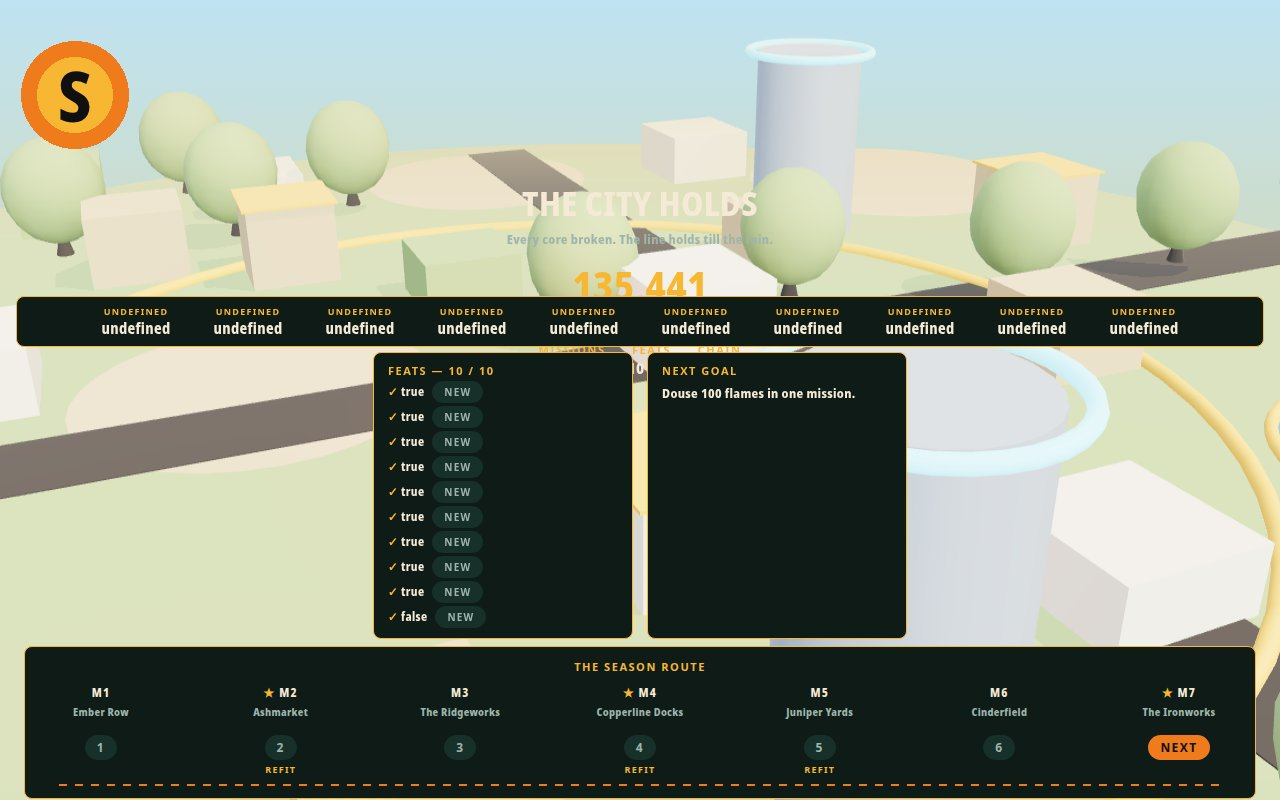
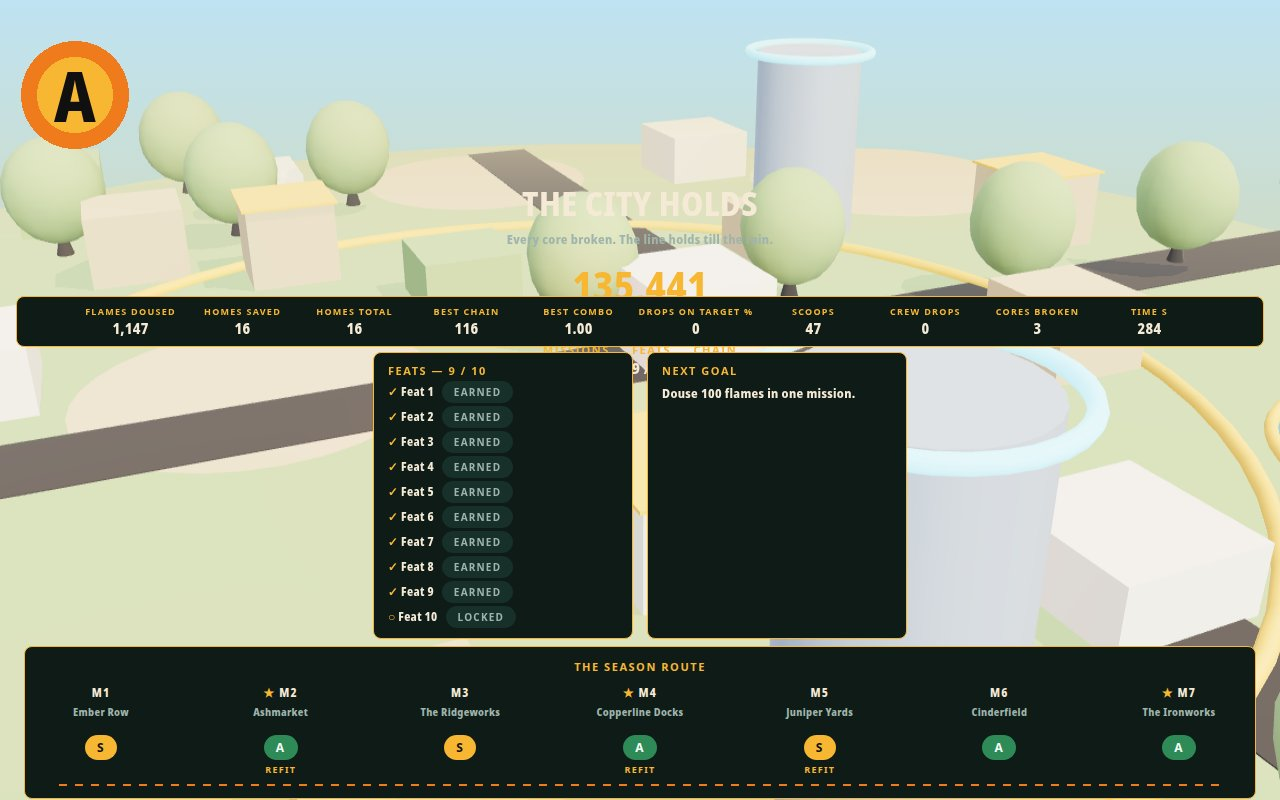
Fix feat names: FEATS are strings, not {n} objects (was showing 'Feat 1..10')

diff --git a/game/src/render.js b/game/src/render.js
@@ -426,10 +426,10 @@ export function createRenderer(canvas) {
     if (featsDone.length) {
       let list = '';
       for (let i = 0; i < featsDone.length; i += 1) {
-        const f = FEATS[i] || {};
+        const f = FEATS[i];
         list += '<div style="margin-top:3px;font-size:12px;">' +
           '<span class="gold">' + (featsDone[i] ? '&#10003;' : '&#9675;') +
-          '</span> ' + esc(f.n || ('Feat ' + (i + 1))) +
+          '</span> ' + esc(typeof f === 'string' ? f : (f && f.n) || ('Feat ' + (i + 1))) +
           '<span class="chip" style="background:#17302A;color:#9FB5AC;margin-left:8px;font-size:10px;">' +
           (featsDone[i] ? 'EARNED' : 'LOCKED') + '</span></div>';
       }
